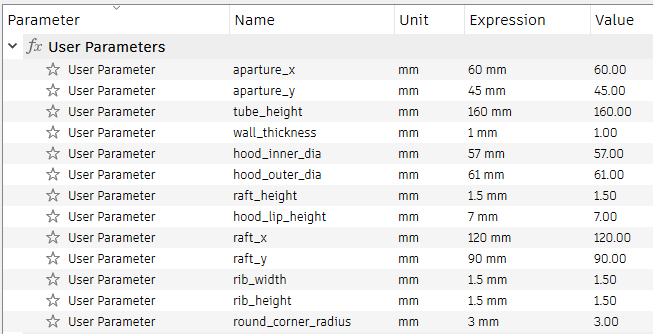
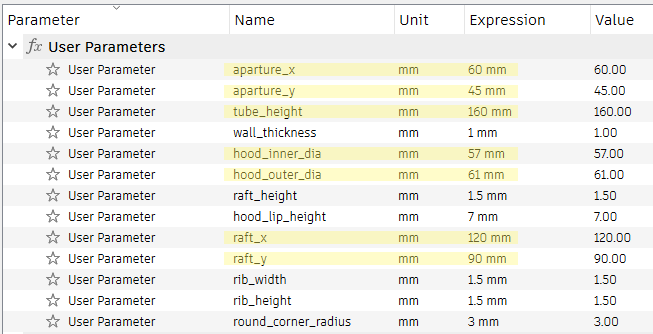
writing

Changed region(s): [[0.3369, 0.1796, 0.7963, 0.3593], [0.3369, 0.6886, 0.7963, 0.8084], [0.3369, 0.4192, 0.7963, 0.5389]]

diff --git a/cone_customization.md b/cone_customization.md
@@ -93,10 +93,54 @@ That's it! We're done.
 
 ## Parameter Adjustment
 
-Back in Autodesk Fusion.
+Back in Autodesk Fusion. We can now customize the cone with the values we just measured.
 
-We can now customize the cone with the values we just measured.
+ℹ Click the **number in Expression column** to change the value.
 
+#### `aperture_x` and `aperture_y`
 
+* Size of the scanning window.
+* 24×36mm for 135, 60x45mm for 645, 60x90mm for 6x9, etc.
+* Add an extra 1mm to account for margin of error if you want.
 
+#### `tube_height`
 
+* Height of the cone in mm you measured
+* 1cm = 10mm
+
+#### `hood_inner_dia` and `hood_outer_dia`
+
+* Lens hood diameters you just measured
+* For **INNER diameter**, **ROUND DOWN** to the nearest 0.5mm.
+	* 57.4mm -> 57mm
+* For **OUTER diameter**, **ROUND UP** to the nearest 0.5mm.
+	* 60.62mm -> 61mm
+
+#### `raft_x` and `raft_y`
+
+* Size of the bottom platform of the cone
+* Default is 90x90mm, works pretty well.
+* Increase slightly for larger formats.
+
+![Alt text](photos/newpara.png)
+
+No need to change the other parameters.
+
+As you type in new values, the cone changes shape accordingly.
+
+Now it is much taller:
+
+![Alt text](photos/newcone.png)
+
+We can now 3D print the new cone!
+
+* File icon -> 3D Print 
+
+![Alt text](photos/f3d.png)
+
+* Click on the 3D model
+* Export STL file, or send directly to a slicer.
+
+![Alt text](photos/3dmenu.png)
+
+With your very own traffic cone, go back and continue on the main guide!
